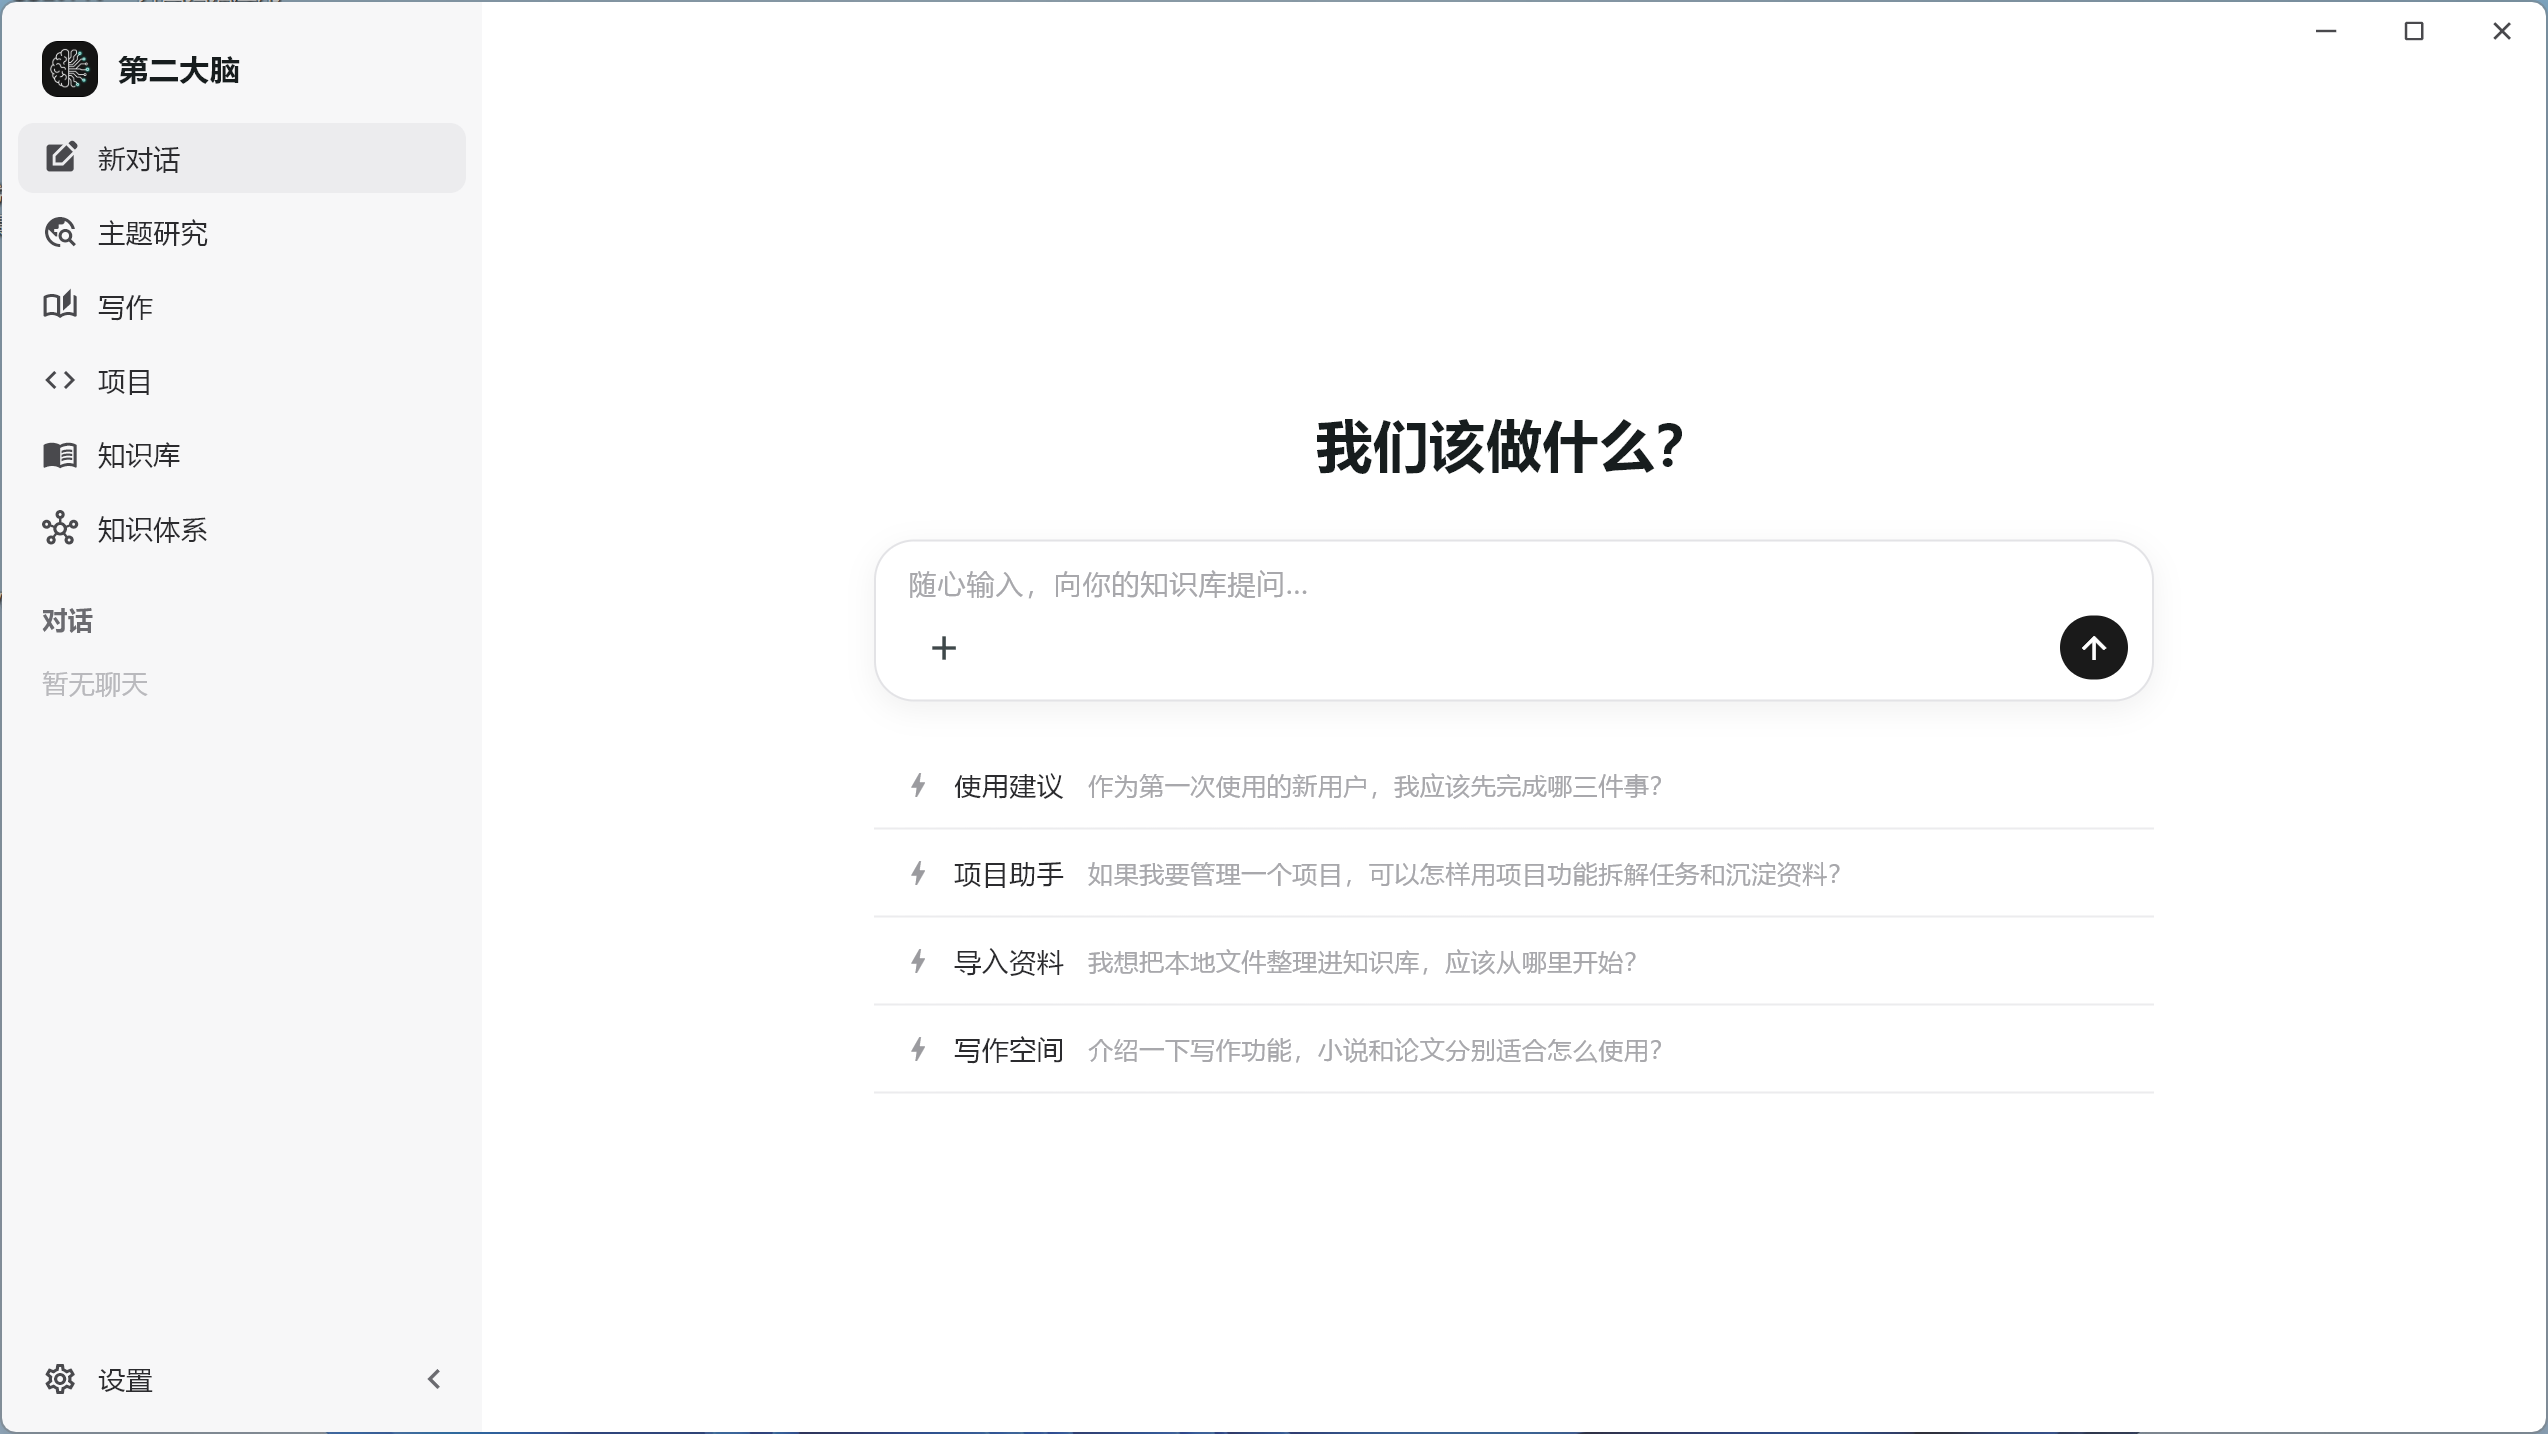
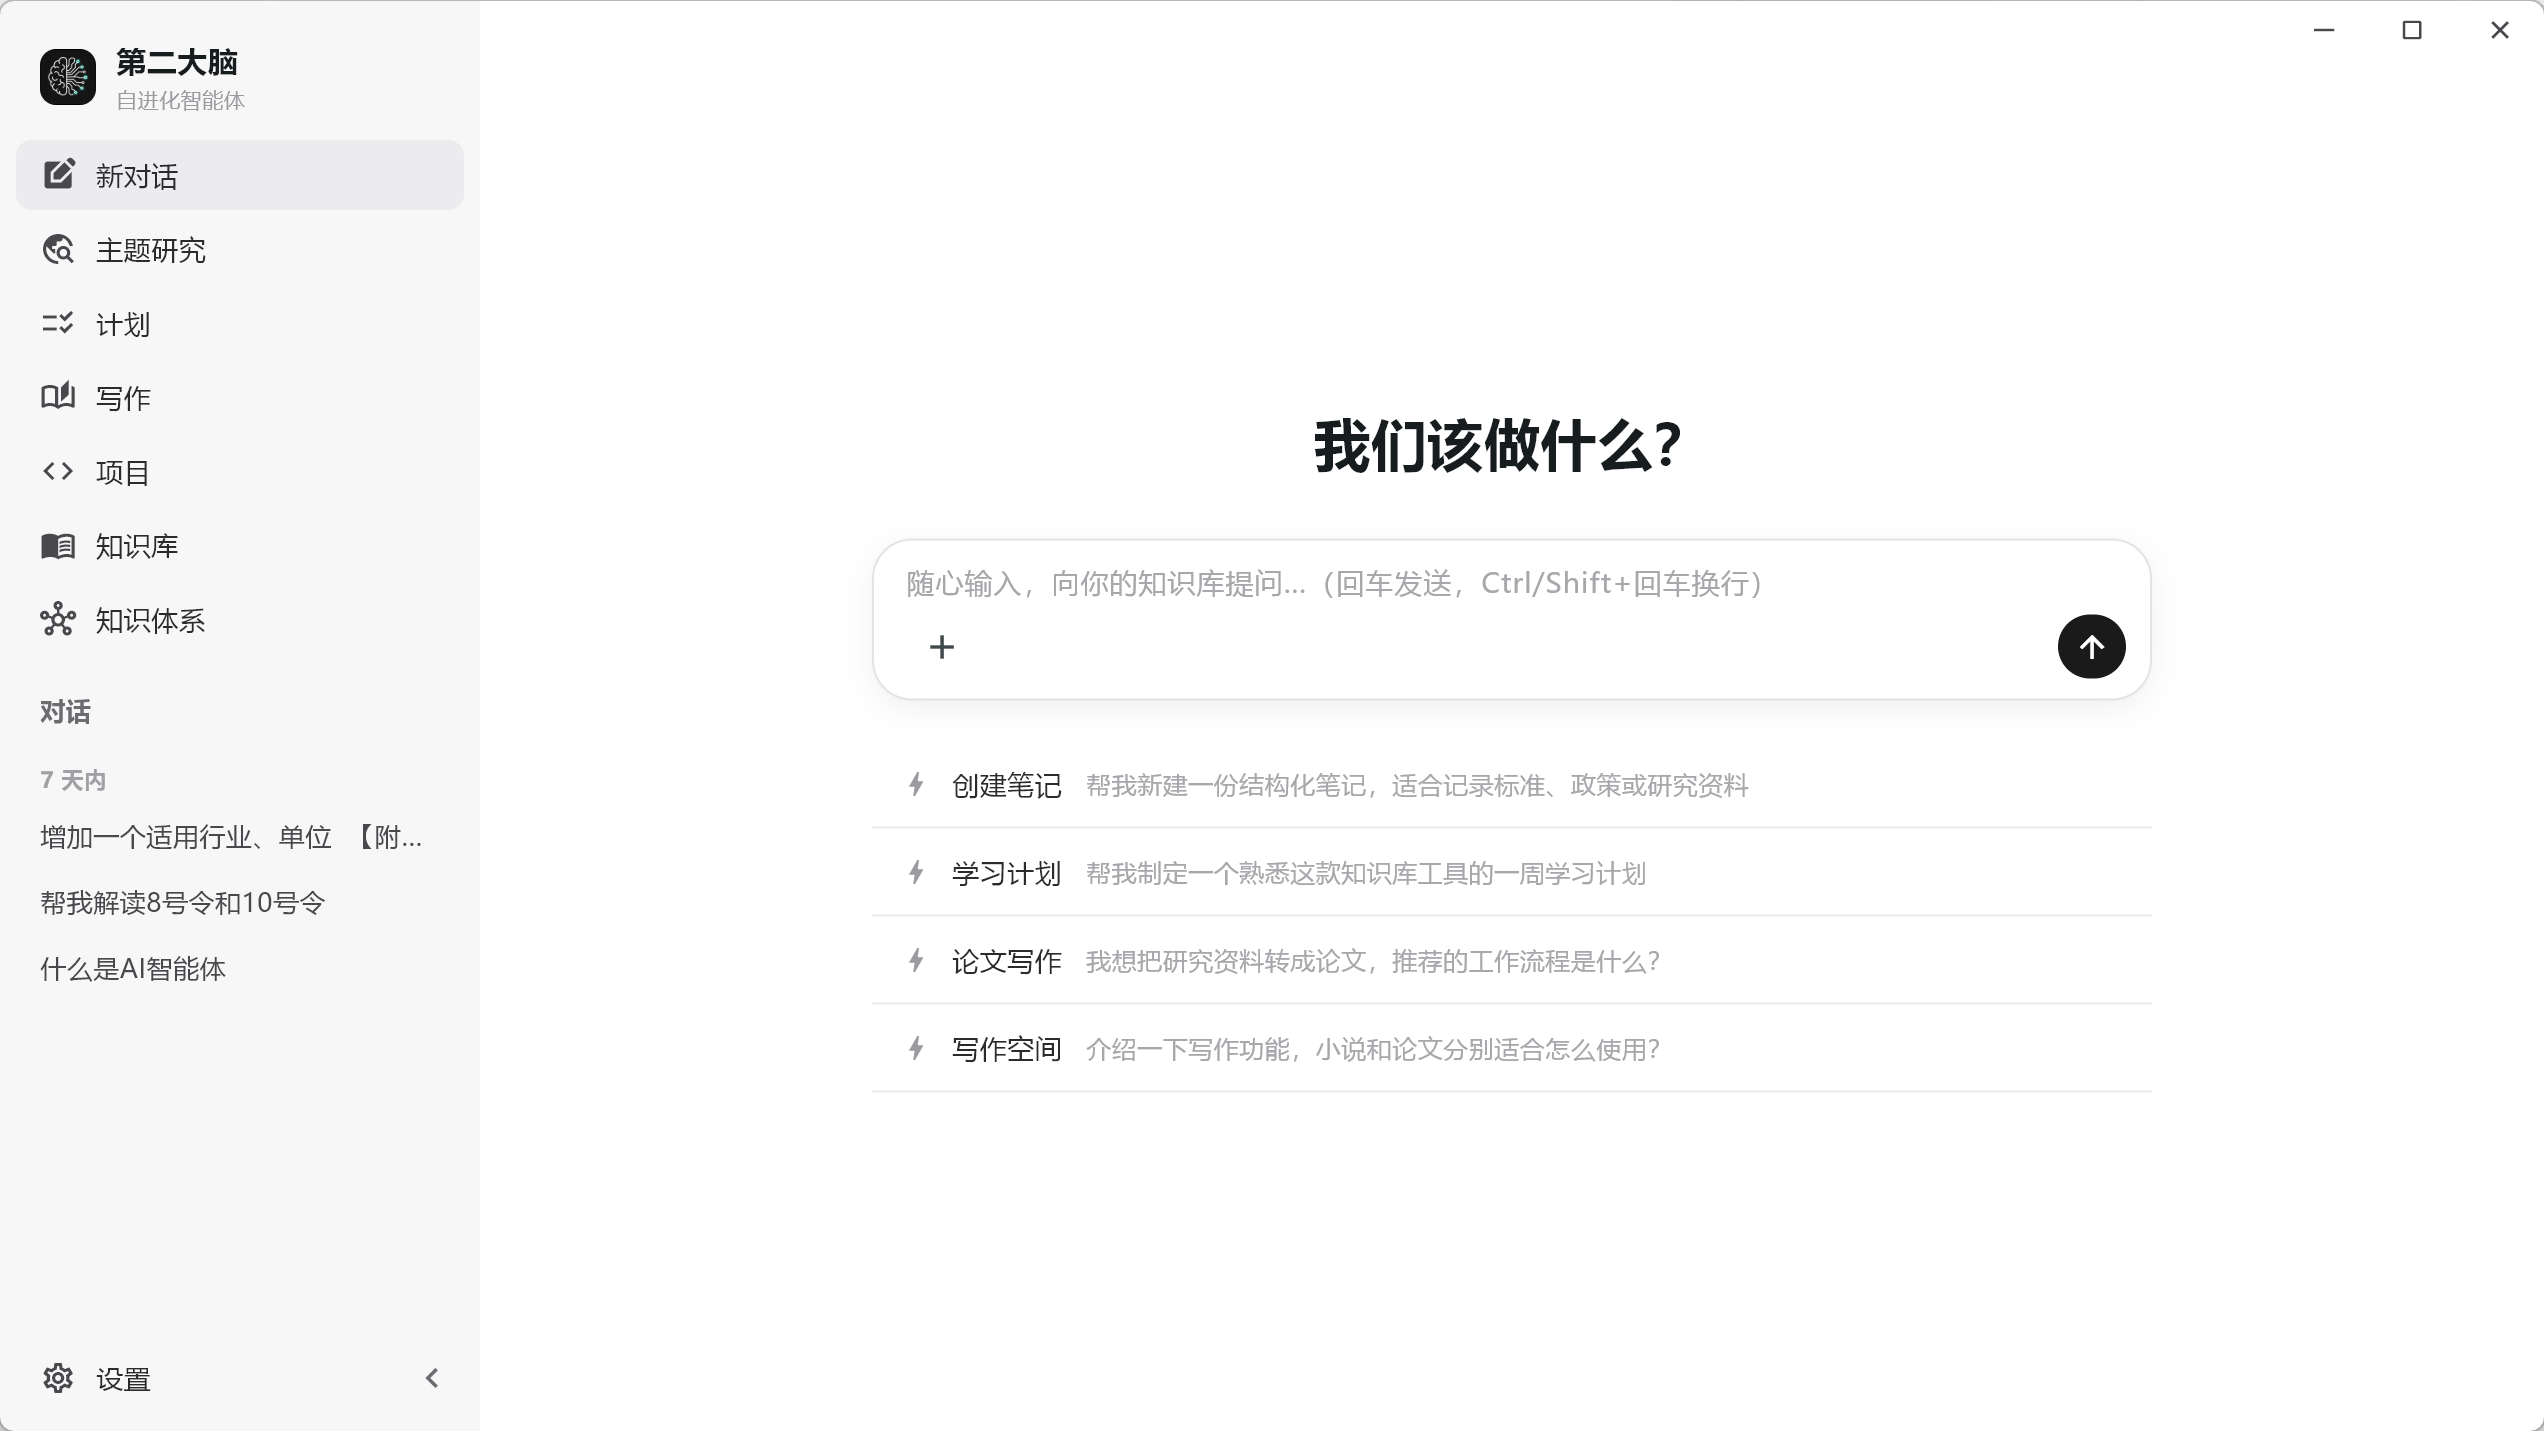
文档：更新 README 功能介绍并替换应用截图
补全计划、思维导图、专业书籍、小说、论文、推广、知识体系与自进化记忆等模块说明，修正过时的语义检索描述。

diff --git a/README.md b/README.md
@@ -16,23 +16,30 @@ Mind 是一个用 Flutter 构建的个人「第二大脑」应用。它把对话
 
 ## Mind 能做什么
 
-Mind 面向需要长期收集资料、研究主题、写作笔记，并把 AI 融入日常工作流的人。
+Mind 面向需要长期收集资料、研究主题、写作创作，并把 AI 融入日常工作流的人。它把「收集资料 → 沉淀知识 → 深度研究 → 成果产出」的完整链路放进同一个本地工作台。
 
 当前应用包含：
 
-* 带持久化历史的对话会话。
-* 名为 `我的大脑` 的本地知识库目录。
-* 主题研究：检索论文、代码、网页和本地参考资料。
-* 知识库：管理笔记、文档、媒体、书籍和论文。
-* 写作工具：支持文档、书籍和论文草稿。
-* 桌面集成：Zotero、Playwright 辅助浏览和项目开发。
-* 项目 Agent：可以在应用界面中查看、理解并修改软件工程。
+* **对话**：带持久化历史的对话会话，接入统一的 Agent 内核（工具调用 + 记忆）。
+* **主题研究**：给定主题即自动多源检索（论文、代码、网页、本地参考、Zotero 等），汇总生成研究报告并归档进知识库。
+* **计划**：每日待办管理，AI 可分析并调用统一 Agent 内核推进任务。
+* **知识库（我的大脑）**：`2-标准笔记` + `3-文件库` 双层管理，支持引入文件夹入库、AI 自动分类归档、为文档自动建分类笔记、去重合并。
+* **知识体系**：以知识图谱可视化笔记与主题之间的关联。
+* **写作**：多形态创作套件，均接入统一大模型与写作记忆——
+  * 文档、思维导图；
+  * 专业书籍：资料自动匹配/下载/AI 解读、按章上传参考、成文时注入资料解读与写作记忆；
+  * 小说：分层记忆（滚动摘要、章节回顾、设定库）保持长篇一致性；
+  * 论文：SCI 结构化中英双语稿，可导出 PDF/LaTeX；
+  * 推广：为指定应用生成知乎推文，可关联项目工程走读源码提炼真实特点后再成文。
+* **项目 Agent**：在应用界面中查看、理解并修改软件工程（claude-code 式的 grep/glob/read 按需检索）。
+* **自进化记忆**：分层记忆系统（技能沉淀/召回、会话归档、工作记事板），让 Agent 在使用中持续积累经验。
+* **桌面集成**：Zotero、Playwright 辅助浏览与项目开发。
 
 ## 支持平台
 
-Windows 是主要目标平台。它使用完整的桌面界面，并支持 Zotero、Playwright、项目开发和自定义窗口控制。
+Windows 是主要目标平台。它使用完整的桌面界面，并支持主题研究、计划、写作（文档/思维导图/专业书籍/小说/论文/推广）、项目开发、知识库与知识体系，以及 Zotero、Playwright 和自定义窗口控制。
 
-Android 使用移动端界面，包含对话、知识库、研究、知识体系、写作和设置等核心页面。
+Android 使用移动端界面，包含对话、知识库、研究、知识体系、写作和设置等核心页面（项目开发、推广走读源码等桌面能力不在移动端提供）。
 
 macOS 可以按 Flutter 桌面应用方式运行。当前仓库没有提交 `macos/` 平台目录，首次在 Mac 上运行前需要先生成该目录。
 
@@ -147,8 +154,8 @@ D:\我的大脑
 * `.env` 已被 `.gitignore` 忽略，不要把真实 API Key 写进源码、README 或提交记录。
 * Zotero 集成需要本机 Zotero 桌面端在配置端口上可访问。
 * Playwright 辅助研究需要通过应用设置安装 Playwright 和 Chromium。
-* 项目语义检索需要在设置中配置 Embedding 服务。
-* AI 功能使用 OpenAI 兼容的 Chat Completions API。
+* 项目开发与推广走读源码采用 agentic 检索（grep/glob/read 按需定位），无需预建向量索引。
+* AI 功能使用 OpenAI 兼容的 Chat Completions API，可在设置中为不同任务角色配置模型与供应商。
 
 ## 仓库结构
 